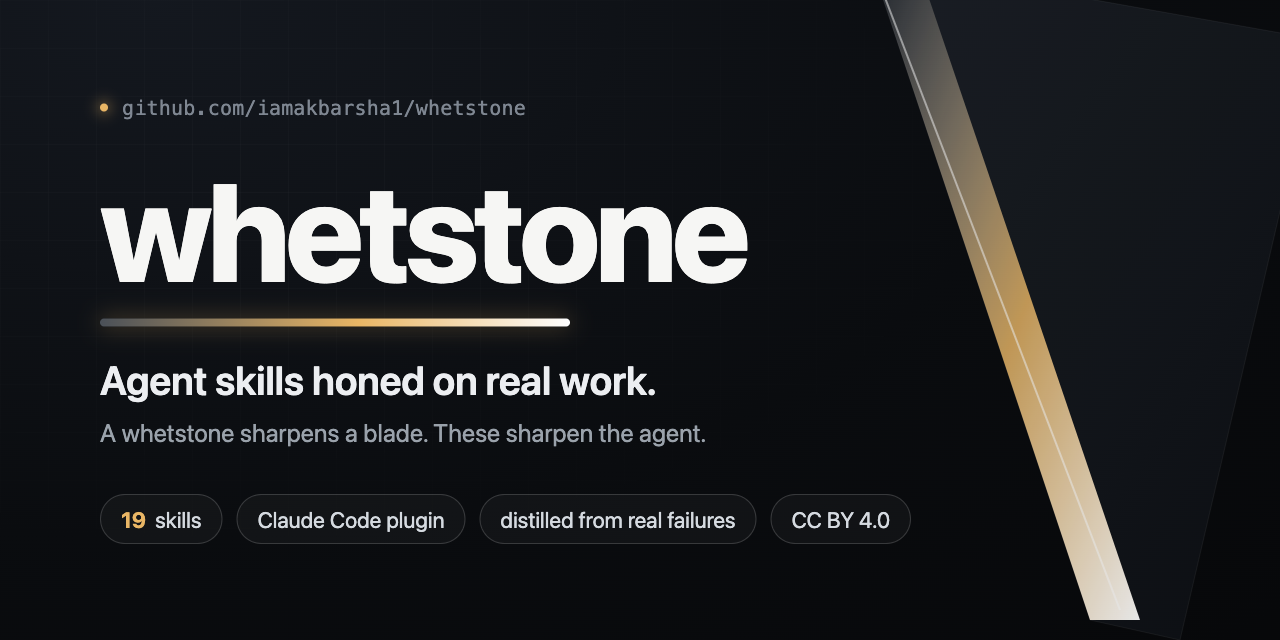
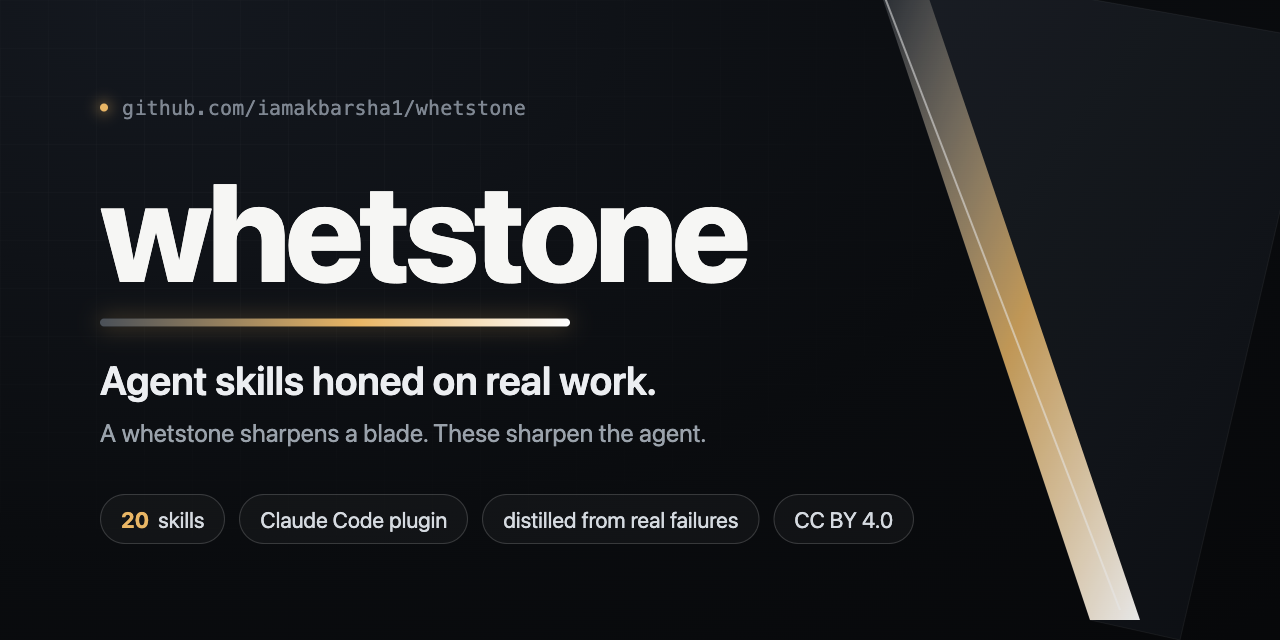
Regenerate social card: 19 -> 20 skills

Changed region(s): [[0.0938, 0.7812, 0.7188, 0.8438]]

diff --git a/.github/social-card.html b/.github/social-card.html
@@ -91,7 +91,7 @@
     </div>
 
     <div class="chips">
-      <span class="chip"><b>19</b> skills</span>
+      <span class="chip"><b>20</b> skills</span>
       <span class="chip">Claude Code plugin</span>
       <span class="chip">distilled from real failures</span>
       <span class="chip">CC&nbsp;BY&nbsp;4.0</span>
